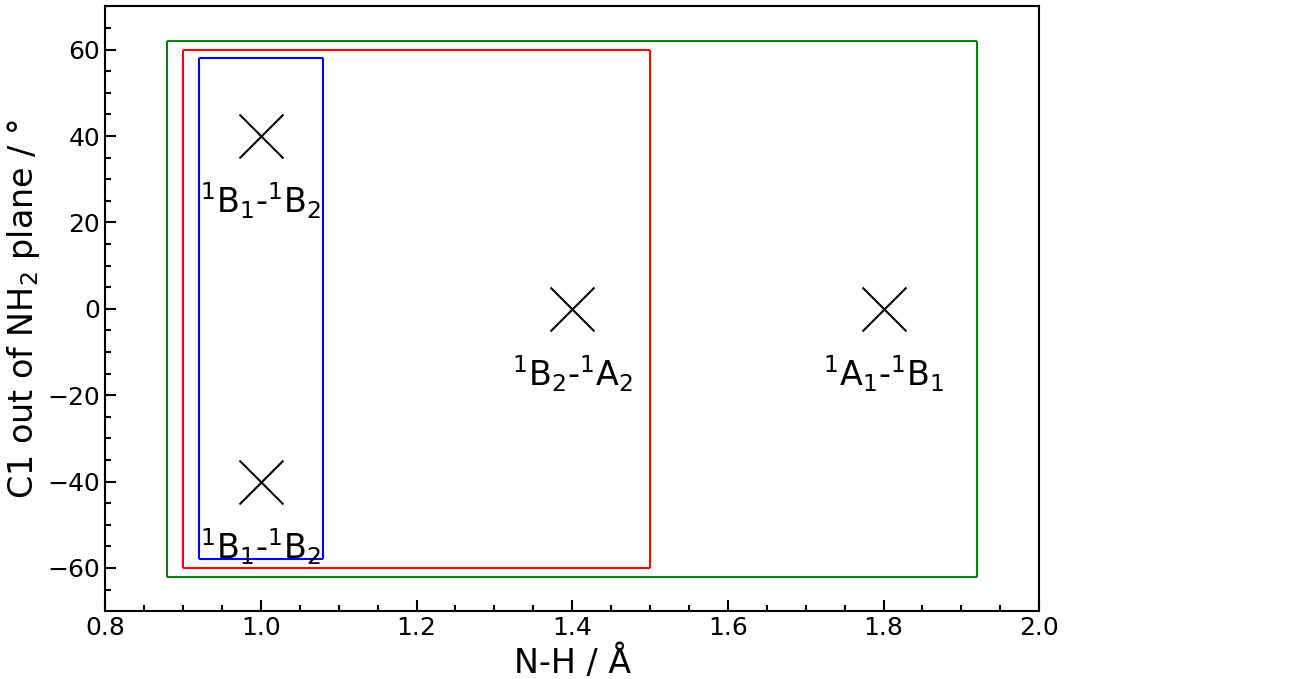
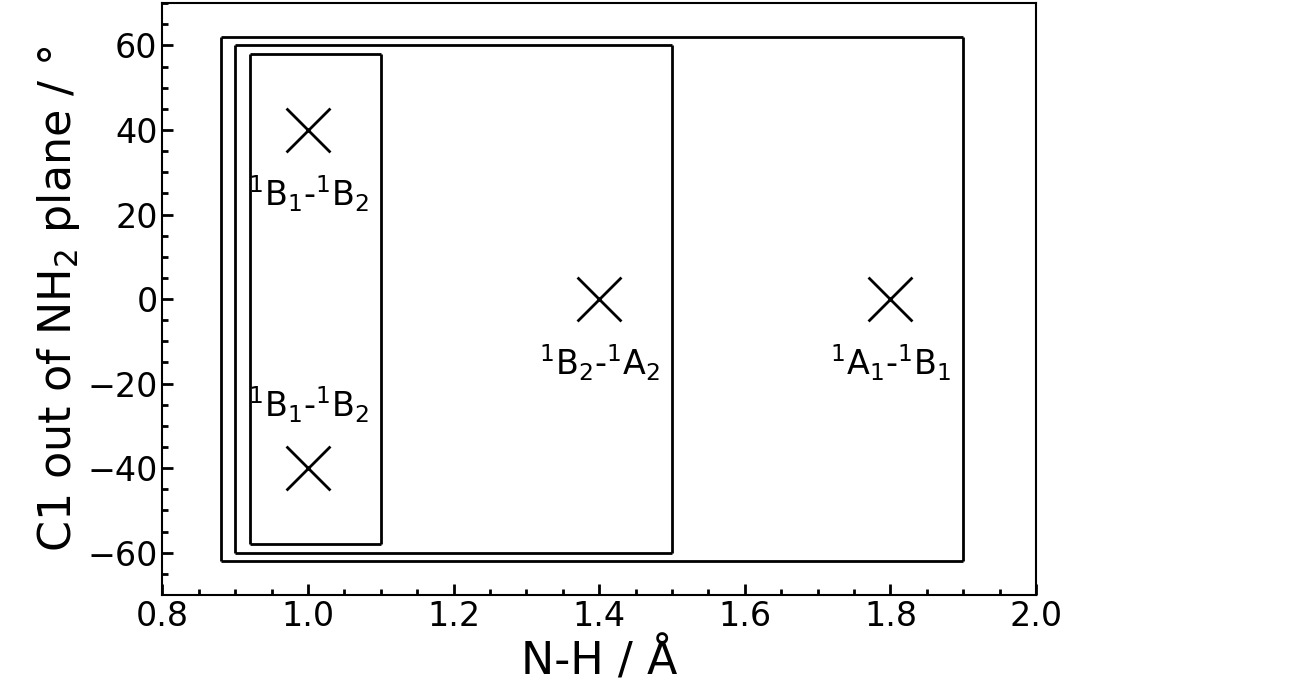
change other loop looking

Changed region(s): [[0.0, 0.0, 0.8314, 1.0]]

diff --git a/diabatz/analysis/loop/other-loops/plot_individual-x.py b/diabatz/analysis/loop/other-loops/plot_individual-x.py
@@ -3,7 +3,7 @@ import matplotlib.pyplot as plt
 
 fig, ax = plt.subplots(1, 1)
 
-ax.scatter((1.0, 1.0, 1.4, 1.8), (-40.0, 40.0, 0.0, 0.0), s=1000, marker='x', facecolors="black", linewidth=1.5)
+ax.scatter((1.0, 1.0, 1.4, 1.8), (-40.0, 40.0, 0.0, 0.0), s=1000, marker='x', facecolors="black", linewidth=2)
 
 ax.text(1.0, -55.0, "$^1$B$_1$-$^1$B$_2$", fontsize=24, horizontalalignment="center", verticalalignment="center")
 ax.text(1.0,  25.0, "$^1$B$_1$-$^1$B$_2$", fontsize=24, horizontalalignment="center", verticalalignment="center")
@@ -14,40 +14,40 @@ dx = 0.02
 dy = 2.0
 
 # B1B2
-ax.hlines(-60, 0.9, 1.1, colors="purple")
-ax.hlines(-20, 0.9, 1.1, colors="purple")
-ax.vlines(0.9, -60, -20, colors="purple")
-ax.vlines(1.1, -60, -20, colors="purple")
+ax.hlines(-60, 0.9, 1.1, colors="purple", linewidth=2)
+ax.hlines(-20, 0.9, 1.1, colors="purple", linewidth=2)
+ax.vlines(0.9, -60, -20, colors="purple", linewidth=2)
+ax.vlines(1.1, -60, -20, colors="purple", linewidth=2)
 
 # B2A2
-ax.hlines(-20, 1.3, 1.5, colors="red")
-ax.hlines( 20, 1.3, 1.5, colors="red")
-ax.vlines(1.3, -20,  20, colors="red")
-ax.vlines(1.5, -20,  20, colors="red")
+ax.hlines(-20, 1.3, 1.5, colors="cyan", linewidth=2)
+ax.hlines( 20, 1.3, 1.5, colors="cyan", linewidth=2)
+ax.vlines(1.3, -20,  20, colors="cyan", linewidth=2)
+ax.vlines(1.5, -20,  20, colors="cyan", linewidth=2)
 
 # A1B1
-ax.hlines(-20, 1.7, 1.9, colors="blue")
-ax.hlines( 20, 1.7, 1.9, colors="blue")
-ax.vlines(1.7, -20,  20, colors="blue")
-ax.vlines(1.9, -20,  20, colors="blue")
+ax.hlines(-20, 1.7, 1.9, colors="red", linewidth=2)
+ax.hlines( 20, 1.7, 1.9, colors="red", linewidth=2)
+ax.vlines(1.7, -20,  20, colors="red", linewidth=2)
+ax.vlines(1.9, -20,  20, colors="red", linewidth=2)
 
 # B2A2-A1B1
-ax.hlines(-20 - dy, 1.3 - dx, 1.9 + dx, colors="green")
-ax.hlines( 20 + dy, 1.3 - dx, 1.9 + dx, colors="green")
-ax.vlines(1.3 - dx, -20 - dy,  20 + dy, colors="green")
-ax.vlines(1.9 + dx, -20 - dy,  20 + dy, colors="green")
+ax.hlines(-20 - dy, 1.3 - dx, 1.9 + dx, colors="black", linewidth=2)
+ax.hlines( 20 + dy, 1.3 - dx, 1.9 + dx, colors="black", linewidth=2)
+ax.vlines(1.3 - dx, -20 - dy,  20 + dy, colors="black", linewidth=2)
+ax.vlines(1.9 + dx, -20 - dy,  20 + dy, colors="black", linewidth=2)
 
-ax.set_xlabel("N-H / Å"                   , fontsize=24)
-ax.set_ylabel("C1 out of NH$_2$ plane / °", fontsize=24)
+ax.set_xlabel("N-H / Å"                   , fontsize=32)
+ax.set_ylabel("C1 out of NH$_2$ plane / °", fontsize=32)
 
 ax.set_xlim(0.8, 2.0)
 ax.set_ylim(-70, 70)
 
-for side in ("top", "bottom", "left", "right"): ax.spines[side].set_linewidth(1.5)
-
-ax.tick_params(direction="in", length=8, width=1.5, labelsize=18)
-
 ax.minorticks_on()
-ax.tick_params(direction="in", length=4, width=1.5, which="minor")
+
+for side in ("top", "bottom", "left", "right"): ax.spines[side].set_linewidth(2)
+
+ax.tick_params(direction="in", length=8, width=2, labelsize=24)
+ax.tick_params(direction="in", length=4, width=2, which="minor")
 
 plt.show()

diff --git a/diabatz/analysis/loop/other-loops/plot_double.py b/diabatz/analysis/loop/other-loops/plot_double.py
@@ -3,9 +3,9 @@ import matplotlib.pyplot as plt
 
 fig, ax = plt.subplots(1, 1)
 
-ax.scatter((1.0, 1.0, 1.4, 1.8), (-40.0, 40.0, 0.0, 0.0), s=1000, marker='x', facecolors="black", linewidth=1.5)
+ax.scatter((1.0, 1.0, 1.4, 1.8), (-40.0, 40.0, 0.0, 0.0), s=1000, marker='x', facecolors="black", linewidth=2)
 
-ax.text(1.0, -55.0, "$^1$B$_1$-$^1$B$_2$", fontsize=24, horizontalalignment="center", verticalalignment="center")
+ax.text(1.0, -25.0, "$^1$B$_1$-$^1$B$_2$", fontsize=24, horizontalalignment="center", verticalalignment="center")
 ax.text(1.0,  25.0, "$^1$B$_1$-$^1$B$_2$", fontsize=24, horizontalalignment="center", verticalalignment="center")
 ax.text(1.4, -15.0, "$^1$B$_2$-$^1$A$_2$", fontsize=24, horizontalalignment="center", verticalalignment="center")
 ax.text(1.8, -15.0, "$^1$A$_1$-$^1$B$_1$", fontsize=24, horizontalalignment="center", verticalalignment="center")
@@ -14,34 +14,34 @@ dx = 0.02
 dy = 2.0
 
 # double 1
-ax.hlines(-60 + dy, 0.9 + dx, 1.1 - dx, colors="blue")
-ax.hlines( 60 - dy, 0.9 + dx, 1.1 - dx, colors="blue")
-ax.vlines(0.9 + dx, -60 + dy,  60 - dy, colors="blue")
-ax.vlines(1.1 - dx, -60 + dy,  60 - dy, colors="blue")
+ax.hlines(-60 + dy, 0.9 + dx, 1.1, colors="black", linewidth=2)
+ax.hlines( 60 - dy, 0.9 + dx, 1.1, colors="black", linewidth=2)
+ax.vlines(0.9 + dx, -60 + dy,  60 - dy, colors="black", linewidth=2)
+ax.vlines(1.1, -60 + dy,  60 - dy, colors="black", linewidth=2)
 
 # double 2
-ax.hlines(-60, 0.9, 1.5, colors="red")
-ax.hlines( 60, 0.9, 1.5, colors="red")
-ax.vlines(0.9, -60,  60, colors="red")
-ax.vlines(1.5, -60,  60, colors="red")
+ax.hlines(-60, 0.9, 1.5, colors="black", linewidth=2)
+ax.hlines( 60, 0.9, 1.5, colors="black", linewidth=2)
+ax.vlines(0.9, -60,  60, colors="black", linewidth=2)
+ax.vlines(1.5, -60,  60, colors="black", linewidth=2)
 
 # double 3
-ax.hlines(-60 - dy, 0.9 - dx, 1.9 + dx, colors="green")
-ax.hlines( 60 + dy, 0.9 - dx, 1.9 + dx, colors="green")
-ax.vlines(0.9 - dx, -60 - dy,  60 + dy, colors="green")
-ax.vlines(1.9 + dx, -60 - dy,  60 + dy, colors="green")
+ax.hlines(-60 - dy, 0.9 - dx, 1.9, colors="black", linewidth=2)
+ax.hlines( 60 + dy, 0.9 - dx, 1.9, colors="black", linewidth=2)
+ax.vlines(0.9 - dx, -60 - dy,  60 + dy, colors="black", linewidth=2)
+ax.vlines(1.9, -60 - dy,  60 + dy, colors="black", linewidth=2)
 
-ax.set_xlabel("N-H / Å"                   , fontsize=24)
-ax.set_ylabel("C1 out of NH$_2$ plane / °", fontsize=24)
+ax.set_xlabel("N-H / Å"                   , fontsize=32)
+ax.set_ylabel("C1 out of NH$_2$ plane / °", fontsize=32)
 
 ax.set_xlim(0.8, 2.0)
 ax.set_ylim(-70, 70)
 
+ax.minorticks_on()
+
 for side in ("top", "bottom", "left", "right"): ax.spines[side].set_linewidth(1.5)
 
-ax.tick_params(direction="in", length=8, width=1.5, labelsize=18)
-
-ax.minorticks_on()
-ax.tick_params(direction="in", length=4, width=1.5, which="minor")
+ax.tick_params(direction="in", length=8, width=2, labelsize=24)
+ax.tick_params(direction="in", length=4, width=2, which="minor")
 
 plt.show()

diff --git a/diabatz/analysis/loop/other-loops/plot_single.py b/diabatz/analysis/loop/other-loops/plot_single.py
@@ -3,7 +3,7 @@ import matplotlib.pyplot as plt
 
 fig, ax = plt.subplots(1, 1)
 
-ax.scatter((1.0, 1.0, 1.4, 1.8), (-40.0, 40.0, 0.0, 0.0), s=1000, marker='x', facecolors="black", linewidth=1.5)
+ax.scatter((1.0, 1.0, 1.4, 1.8), (-40.0, 40.0, 0.0, 0.0), s=1000, marker='x', facecolors="black", linewidth=2)
 
 ax.text(1.0, -55.0, "$^1$B$_1$-$^1$B$_2$", fontsize=24, horizontalalignment="center", verticalalignment="center")
 ax.text(1.0,  25.0, "$^1$B$_1$-$^1$B$_2$", fontsize=24, horizontalalignment="center", verticalalignment="center")
@@ -14,34 +14,34 @@ dx = 0.02
 dy = 2.0
 
 # single 1
-ax.hlines(-20 + dy, 0.9 + dx, 1.1 - dx, colors="blue")
-ax.hlines( 60 - dy, 0.9 + dx, 1.1 - dx, colors="blue")
-ax.vlines(0.9 + dx, -20 + dy,  60 - dy, colors="blue")
-ax.vlines(1.1 - dx, -20 + dy,  60 - dy, colors="blue")
+ax.hlines(-20 + dy, 0.9 + dx, 1.1, colors="black", linewidth=2)
+ax.hlines( 60 - dy, 0.9 + dx, 1.1, colors="black", linewidth=2)
+ax.vlines(0.9 + dx, -20 + dy,  60 - dy, colors="black", linewidth=2)
+ax.vlines(1.1, -20 + dy,  60 - dy, colors="black", linewidth=2)
 
 # single 2
-ax.hlines(-20, 0.9, 1.5, colors="red")
-ax.hlines( 60, 0.9, 1.5, colors="red")
-ax.vlines(0.9, -20,  60, colors="red")
-ax.vlines(1.5, -20,  60, colors="red")
+ax.hlines(-20, 0.9, 1.5, colors="black", linewidth=2)
+ax.hlines( 60, 0.9, 1.5, colors="black", linewidth=2)
+ax.vlines(0.9, -20,  60, colors="black", linewidth=2)
+ax.vlines(1.5, -20,  60, colors="black", linewidth=2)
 
 # single 3
-ax.hlines(-20 - dy, 0.9 - dx, 1.9 + dx, colors="green")
-ax.hlines( 60 + dy, 0.9 - dx, 1.9 + dx, colors="green")
-ax.vlines(0.9 - dx, -20 - dy,  60 + dy, colors="green")
-ax.vlines(1.9 + dx, -20 - dy,  60 + dy, colors="green")
+ax.hlines(-20 - dy, 0.9 - dx, 1.9, colors="black", linewidth=2)
+ax.hlines( 60 + dy, 0.9 - dx, 1.9, colors="black", linewidth=2)
+ax.vlines(0.9 - dx, -20 - dy,  60 + dy, colors="black", linewidth=2)
+ax.vlines(1.9, -20 - dy,  60 + dy, colors="black", linewidth=2)
 
-ax.set_xlabel("N-H / Å"                   , fontsize=24)
-ax.set_ylabel("C1 out of NH$_2$ plane / °", fontsize=24)
+ax.set_xlabel("N-H / Å"                   , fontsize=32)
+ax.set_ylabel("C1 out of NH$_2$ plane / °", fontsize=32)
 
 ax.set_xlim(0.8, 2.0)
 ax.set_ylim(-70, 70)
 
+ax.minorticks_on()
+
 for side in ("top", "bottom", "left", "right"): ax.spines[side].set_linewidth(1.5)
 
-ax.tick_params(direction="in", length=8, width=1.5, labelsize=18)
-
-ax.minorticks_on()
-ax.tick_params(direction="in", length=4, width=1.5, which="minor")
+ax.tick_params(direction="in", length=8, width=2, labelsize=24)
+ax.tick_params(direction="in", length=4, width=2, which="minor")
 
 plt.show()
